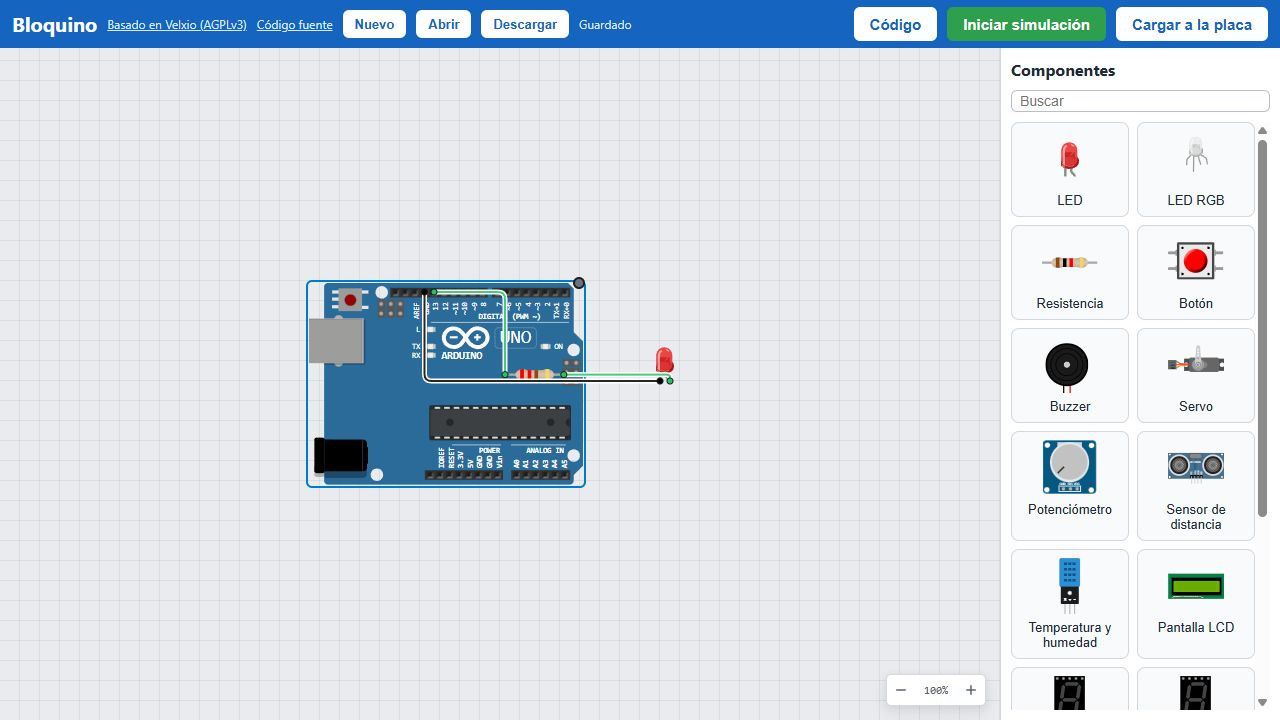
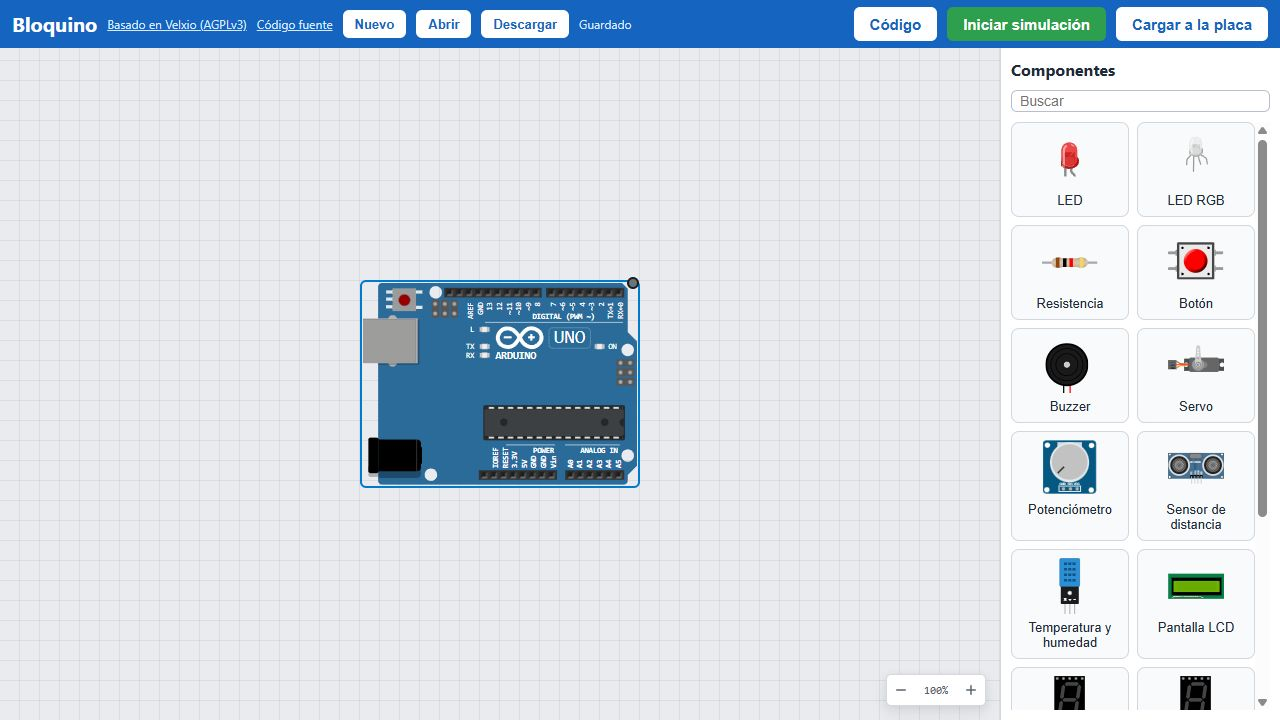
Bloquino: el proyecto nuevo parte solo con la placa
Sin proyecto guardado (primera vez, Nuevo o un guardado ilegible) la página
de alumno queda con el Arduino UNO y el parpadeo, sin el LED y la resistencia
de ejemplo de Velxio. El lienzo se encuadra al montarse aunque esté solo la
placa, y no salta al agregar el primer componente. guia.js salta la captura
del aviso si el navegador ya lo aceptó; rehecha la del proyecto nuevo.
Archiva el change y fusiona su spec.

Changed region(s): [[0.2188, 0.3667, 0.5312, 0.7028]]

diff --git a/frontend/src/__tests__/bloquino-proyecto.test.ts b/frontend/src/__tests__/bloquino-proyecto.test.ts
@@ -19,7 +19,7 @@ import { useSimulatorStore } from '../store/useSimulatorStore';
 import { buildVlxPayload, parseVlxFile } from '../utils/vlxFile';
 
 const CLAVE = 'bloquino-proyecto';
-// El proyecto con que parte la página: UNO, LED del pin 13 y sketch de parpadeo.
+// El proyecto con que parte el store de Velxio: UNO, LED del pin 13 y sketch de parpadeo.
 const INICIAL = JSON.stringify(buildVlxPayload());
 const GRUPO = 'group-arduino-uno';
 
@@ -113,10 +113,13 @@ describe('guardado automático', () => {
 });
 
 describe('restaurar al abrir', () => {
-  it('sin nada guardado queda el proyecto inicial, con sus bloques', async () => {
-    const antes = useSimulatorStore.getState().components;
+  it('sin nada guardado queda el proyecto inicial: solo la placa, con sus bloques', async () => {
+    expect(useSimulatorStore.getState().components.length).toBeGreaterThan(0); // el ejemplo de Velxio
     await restaurar();
-    expect(useSimulatorStore.getState().components).toEqual(antes);
+    const { boards, components, wires } = useSimulatorStore.getState();
+    expect(boards.map((b) => b.boardKind)).toEqual(['arduino-uno']);
+    expect(components).toEqual([]);
+    expect(wires).toEqual([]);
     expect(archivoDe(ARCHIVO_BLOQUES).content).toBe(BLOQUES_INICIALES);
   });
 
@@ -149,6 +152,7 @@ describe('restaurar al abrir', () => {
     localStorage.setItem(CLAVE, guardado);
     await expect(restaurar()).resolves.toBeUndefined();
     expect(useSimulatorStore.getState().boards.map((b) => b.boardKind)).toEqual(['arduino-uno']);
+    expect(useSimulatorStore.getState().components).toEqual([]);
     expect(esTexto(archivoDe(ARCHIVO_BLOQUES).content)).toBe(false);
   });
 

diff --git a/frontend/src/bloquino/proyecto.ts b/frontend/src/bloquino/proyecto.ts
@@ -40,12 +40,19 @@ export async function abrir(archivo: File) {
 
 /** Carga el proyecto guardado en el navegador, si lo hay y se puede leer. */
 export async function restaurar() {
+  let abierto = false;
   try {
     const guardado = localStorage.getItem(CLAVE);
-    if (guardado) await abrir(new File([guardado], CLAVE));
+    if (guardado) {
+      await abrir(new File([guardado], CLAVE));
+      abierto = true;
+    }
   } catch {
     // Sin almacenamiento o con un proyecto dañado queda el proyecto inicial.
   }
+  // El proyecto inicial es solo la placa: sin el LED y la resistencia de
+  // ejemplo que Velxio pone en el pin 13.
+  if (!abierto) useSimulatorStore.setState({ components: [], wires: [] });
   // El proyecto del alumno siempre tiene bloques (no hace nada si ya existen).
   const editor = useEditorStore.getState();
   editor.addFileToGroup(editor.activeGroupId, {

diff --git a/frontend/src/components/simulator/SimulatorCanvas.tsx b/frontend/src/components/simulator/SimulatorCanvas.tsx
@@ -2618,7 +2618,11 @@ export const SimulatorCanvas = ({ headerSlot }: SimulatorCanvasProps = {}) => {
 
     // Only re-fit when the component list transitions from empty/different
     // project to a populated one (i.e., a load/import event).
-    const isLoad = curr > 0 && (prev <= 0 || Math.abs(curr - prev) > 2);
+    // Bloquino: on mount even with the board alone (a new project starts
+    // centred, not in the top-left corner), and NOT on 0 → 1: adding the first
+    // part to that project must not move the view. The student page remounts
+    // the canvas on every file open, so loads still start from -1.
+    const isLoad = prev < 0 || (curr > 0 && Math.abs(curr - prev) > 2);
     if (!isLoad) return;
 
     const timer = setTimeout(() => {

diff --git a/scripts/recorrido/guia.js b/scripts/recorrido/guia.js
@@ -19,11 +19,15 @@ async (page) => {
   await page.setViewportSize({ width: 1280, height: 720 });
 
   // 1. Lo que ve un equipo nuevo en la dirección https:// (autoridad sin instalar).
+  // Si este navegador ya aceptó el aviso, no aparece: queda la captura anterior.
   await page.goto(IP).catch(() => {});
   await espera(1500);
-  await page.getByRole('button', { name: 'Avanzado' }).click();
-  await espera(500);
-  await foto('aviso-https-avanzado');
+  R.aviso = (await page.getByRole('button', { name: 'Avanzado' }).count()) > 0;
+  if (R.aviso) {
+    await page.getByRole('button', { name: 'Avanzado' }).click();
+    await espera(500);
+    await foto('aviso-https-avanzado');
+  }
 
   // 2. Proyecto nuevo.
   await page.goto(SALA);

diff --git a/docs/bloquino-prueba-con-el-kit.md b/docs/bloquino-prueba-con-el-kit.md
@@ -29,7 +29,6 @@ más abajo.
 - [ ] LED RGB: ¿el del kit es de cátodo común?
 - [ ] Programas del curso en bloques: oír y ver con los componentes armados
   los que se apartan del `.ino` (tabla de abajo; ya cargan en el clon).
-- [ ] Decidir si el proyecto nuevo parte solo con la placa.
 
 ## Probado sin armar nada (2026-11-13)
 
@@ -40,7 +39,7 @@ en COM6 por `scripts/puente-serie.ps1`.
 | --- | --- |
 | Entrar por `https://192.168.18.111` aceptando el aviso | Contexto seguro, Web Serial disponible, simula y «Cargar a la placa» (placa simulada) termina en «¡Listo!». |
 | Tiras de la protoboard | Agujero: marca sus 5; riel: sus 50; cada marca a 0,3 px de su agujero. Igual con la protoboard girada. |
-| Ocho componentes seguidos | Quedan en fila arriba, sin encimarse ni tapar la placa. La resistencia del proyecto nuevo (la de Velxio) sí queda sobre la placa. |
+| Ocho componentes seguidos | Quedan en fila arriba, sin encimarse ni tapar la placa. La resistencia de ejemplo de Velxio sí quedaba sobre la placa: el proyecto nuevo ya no la trae. |
 | LED sin resistencia | «Revisa tu circuito» en español: «Un LED está conectado sin resistencia…», con «Volver a arreglarlo» y «Simular igual». |
 | Recargar a mitad del armado | Vuelven los 10 componentes, todos dentro del lienzo. |
 | Simulación con la CPU frenada (DevTools, como un notebook lento) | ÷1: 60 cuadros/s, tiempo real. ÷4: 13 cuadros/s y el parpadeo de 1 s corre al ~60 %. ÷6: 9 cuadros/s, ~40 %. Lo mismo con el parpadeo solo que con el marcador o la estación del tiempo: no depende del circuito. Falta medirlo en un notebook de la sala. |
@@ -117,7 +116,7 @@ la placa real:
   a la vez; comparar la melodía con el buzzer real y la misma librería.
 - Recargar la página a mitad de un armado: vuelve todo, encuadrado.
 
-## Decisiones tomadas (2026-11-12)
+## Decisiones tomadas
 
 - **Botón de la sesión 4**: el curso pasa a armarlo como Bloquino, entre el pin
   y GND con la resistencia interna del pin (apretado = LOW). Se cambia en las
@@ -126,8 +125,5 @@ la placa real:
   el módulo del kit y el de la pantalla.
 - **Ficha del componente**: se queda con clic derecho. Un clic selecciona;
   Supr elimina lo seleccionado y R lo gira.
-
-## Decisiones que siguen abiertas
-
-- **Proyecto nuevo**: hoy parte con el LED y la resistencia de ejemplo de
-  Velxio junto a la placa. ¿Mejor solo la placa?
+- **Proyecto nuevo** (2026-11-13): parte solo con la placa, sin el LED y la
+  resistencia de ejemplo de Velxio.

diff --git a/openspec/changes/archive/2026-11-13-proyecto-nuevo-solo-placa/proposal.md b/openspec/changes/archive/2026-11-13-proyecto-nuevo-solo-placa/proposal.md
@@ -1,0 +1,33 @@
+# Proposal
+
+## Why
+
+El proyecto nuevo de la página de alumno parte con el LED y la resistencia de
+ejemplo que Velxio pone en el pin 13. En la prueba del 2026-11-13 esa
+resistencia quedó dibujada encima de la placa, y el alumno los tiene que borrar
+antes de armar lo de la sesión. Pablo decidió que el proyecto nuevo parta solo
+con la placa (era una decisión abierta de `docs/bloquino-prueba-con-el-kit.md`).
+
+## What Changes
+
+- Sin proyecto guardado (primera vez, «Nuevo» o un guardado ilegible), la página
+  de alumno queda con el Arduino UNO y el programa de parpadeo, sin otros
+  componentes ni cables. El parpadeo se ve en el LED de la placa.
+- Velxio encuadraba el lienzo solo si había componentes: la placa sola quedaba
+  en la esquina superior izquierda, y al agregar el primer componente la vista
+  saltaba. Ahora encuadra al montar el lienzo aunque esté solo la placa, y no
+  al pasar de 0 a 1 componente (abrir un archivo vuelve a montar el lienzo, así
+  que sigue encuadrando).
+- Capturas que mostraban el proyecto nuevo: `docs/guia-de-la-clase/img/nuevo.jpg`
+  y la slide de la sesión 2 del curso (`bq-nuevo.jpg`).
+- La decisión queda en `docs/decisiones.md` del proyecto.
+
+## Capabilities
+
+### Modified Capabilities
+- `interfaz/distribucion`: el proyecto nuevo tiene solo la placa.
+
+## Impact
+
+- `frontend/src/bloquino/proyecto.ts` (`restaurar`) y su test;
+  `SimulatorCanvas.tsx` (cuándo encuadra, con comentario `Bloquino:`).

diff --git a/openspec/changes/archive/2026-11-13-proyecto-nuevo-solo-placa/tasks.md b/openspec/changes/archive/2026-11-13-proyecto-nuevo-solo-placa/tasks.md
@@ -1,0 +1,17 @@
+# Tasks
+
+## 1. Proyecto nuevo
+
+- [x] 1.1 `restaurar`: sin proyecto guardado que se pueda abrir, quitar los componentes y cables de ejemplo de Velxio.
+- [x] 1.2 Test en `bloquino-proyecto.test.ts` (sin guardado y con guardado ilegible queda solo la placa).
+- [x] 1.3 `SimulatorCanvas`: encuadrar al montar aunque esté solo la placa, y no al pasar de 0 a 1 componente.
+
+## 2. Documentos y capturas
+
+- [x] 2.1 Decisión al final de `docs/decisiones.md`; `docs/bloquino-prueba-con-el-kit.md` la pasa a tomadas.
+- [x] 2.2 Rehacer `docs/guia-de-la-clase/img/nuevo.jpg` (`scripts/recorrido/guia.js`, que ahora salta la captura del aviso si el navegador ya lo aceptó) y `bq-nuevo.jpg` del curso (sesión 2, la misma captura); en la slide, el texto de «la mesa» y el `alt` ya no hablan del LED de ejemplo.
+
+## 3. Cierre
+
+- [x] 3.1 Playwright en desarrollo: con guardado ilegible y tras «Nuevo» queda solo la placa, centrada; al simular su LED cambia 4 veces en 4 s, sin aviso del circuito; tras recargar sigue igual; agregar un componente no mueve la vista; abrir el semáforo lo encuadra.
+- [x] 3.2 Reconstruir la imagen de la sala: `sala.js` sin cambios (el proyecto inicial parpadea, serie, descarga, recarga, servo) y `guia.js` con la placa sola centrada.

diff --git a/openspec/specs/interfaz/distribucion/spec.md b/openspec/specs/interfaz/distribucion/spec.md
@@ -7,11 +7,15 @@ Define la disposición de la página del editor para un niño de 9 a 12 años: l
 ## Requirements
 
 ### Requirement: Lienzo claro con Arduino UNO
-La página del editor SHALL mostrar el lienzo del circuito con tema claro ocupando el centro de la pantalla. Un proyecto nuevo SHALL empezar con un Arduino UNO ya puesto en el lienzo.
+La página del editor SHALL mostrar el lienzo del circuito con tema claro ocupando el centro de la pantalla. Un proyecto nuevo SHALL empezar con un Arduino UNO ya puesto en el lienzo y ningún otro componente ni cable.
 
 #### Scenario: Abrir el editor por primera vez
 - **WHEN** el usuario abre el editor sin proyecto guardado
 - **THEN** ve un Arduino UNO en un lienzo de fondo claro, sin diálogos previos
+
+#### Scenario: Proyecto nuevo solo con la placa
+- **WHEN** el alumno aprieta «Nuevo» y acepta
+- **THEN** en el lienzo queda solo el Arduino UNO, sin LED, resistencia ni cables, y al simular parpadea el LED de la placa
 
 ### Requirement: Paleta de componentes
 La página SHALL mostrar a la derecha una paleta con los componentes disponibles, cada uno con miniatura y nombre, y un buscador que filtra por nombre. Elegir un componente de la paleta SHALL agregarlo al lienzo.

diff --git a/openspec/changes/archive/2026-11-13-proyecto-nuevo-solo-placa/specs/interfaz/distribucion/spec.md b/openspec/changes/archive/2026-11-13-proyecto-nuevo-solo-placa/specs/interfaz/distribucion/spec.md
@@ -1,0 +1,12 @@
+## MODIFIED Requirements
+
+### Requirement: Lienzo claro con Arduino UNO
+La página del editor SHALL mostrar el lienzo del circuito con tema claro ocupando el centro de la pantalla. Un proyecto nuevo SHALL empezar con un Arduino UNO ya puesto en el lienzo y ningún otro componente ni cable.
+
+#### Scenario: Abrir el editor por primera vez
+- **WHEN** el usuario abre el editor sin proyecto guardado
+- **THEN** ve un Arduino UNO en un lienzo de fondo claro, sin diálogos previos
+
+#### Scenario: Proyecto nuevo solo con la placa
+- **WHEN** el alumno aprieta «Nuevo» y acepta
+- **THEN** en el lienzo queda solo el Arduino UNO, sin LED, resistencia ni cables, y al simular parpadea el LED de la placa
